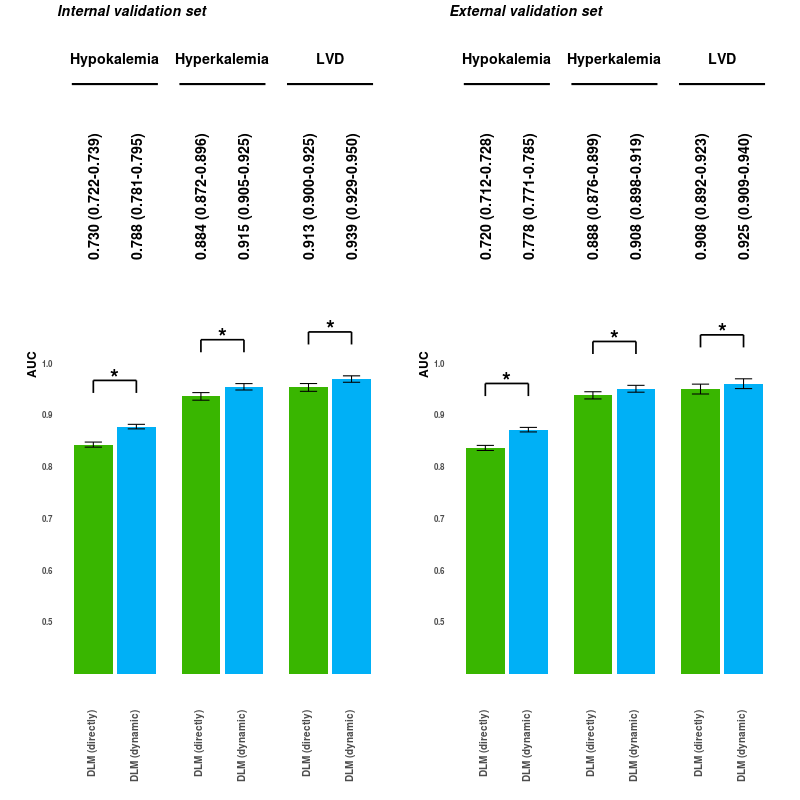
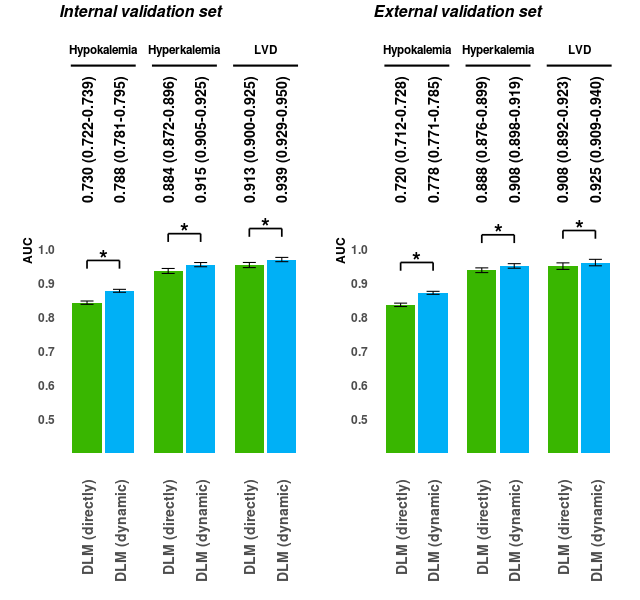
Update README, plot function, and plot.

diff --git a/README.md b/README.md
@@ -11,7 +11,7 @@ The DLM predictions via ECGs is revised with the personal best linear unbiased p
 # Requirements
 
   * [R (version 3.4.4)](https://www.r-project.org/) and [Rstudio (not necessary)](https://www.rstudio.com/)
-  * [Rtools35.exe](https://cran.r-project.org/bin/windows/Rtools/Rtools35.exe)
+  * [Rtools (Rtools35.exe)](https://cran.r-project.org/bin/windows/Rtools/history.html)
   
 You need to have `Rtools` installed to compile the package. Use the above link for the installation of `Rtools`.
   
@@ -38,7 +38,7 @@ install.packages(package_url, repos = NULL, type = "source")
   * [rlang](https://cran.r-project.org/web/packages/rlang/index.html)
   * [ggplot2](https://cran.r-project.org/web/packages/ggplot2/index.html)
 
-You need to have `ggplot2` and its dependencies installed to plot the performance, and you can install `ggplot2` and its dependencies  by running the following line in your R console:
+You need to have `ggplot2` and its dependencies installed to plot the summary of performance, and you can install `ggplot2` and its dependencies by running the following line in your R console:
   
 ```R
 package_url <- "https://cran.r-project.org/src/contrib/Archive/cli/cli_2.0.2.tar.gz"
@@ -61,7 +61,7 @@ The function of constructing LMM and dynamic revision using BLUP can be found in
   
 # Example data
 
-We use de-identified clinical data in the hospital as the example data. There are two data files, ['data/serum_potassium_data.csv'](https://github.com/Imshepherd/dynamic-revision-of-deep-learning-model/blob/main/data/serum_potassium_data.csv) and ['data/ejection_fraction_data.csv'](https://github.com/Imshepherd/dynamic-revision-of-deep-learning-model/blob/main/data/ejection_fraction_data.csv). See here for more information about the data.
+We use de-identified clinical data in the hospital as the example data. There are two data files, ['data/serum_potassium_data.csv'](https://github.com/Imshepherd/dynamic-revision-of-deep-learning-model/blob/main/data/serum_potassium_data.csv) and ['data/ejection_fraction_data.csv'](https://github.com/Imshepherd/dynamic-revision-of-deep-learning-model/blob/main/data/ejection_fraction_data.csv). See here for more information about the data files.
 
   * The two independent comma-separated values (csv) files containing the columns
     * "dataset": four subsets include development, tuning, internal validation, and external validation sets;
